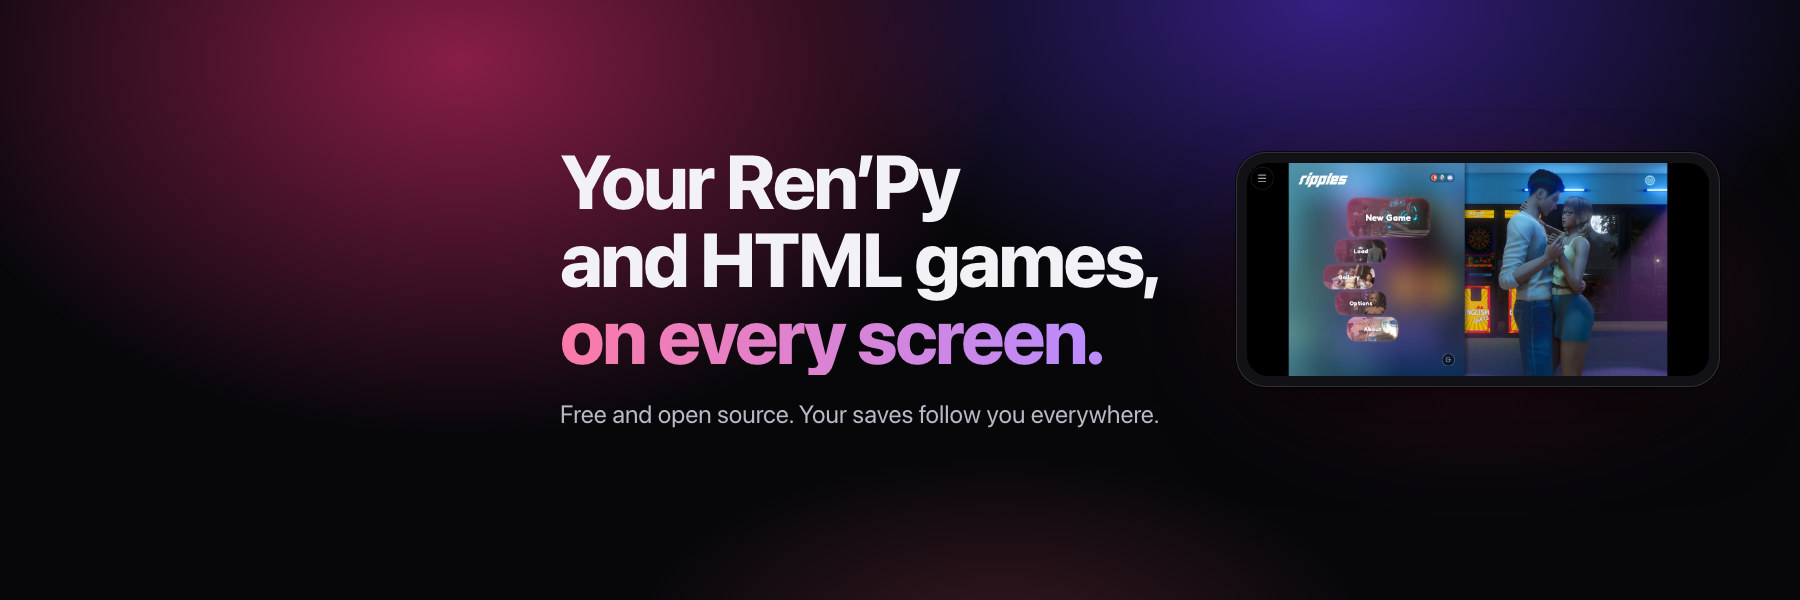
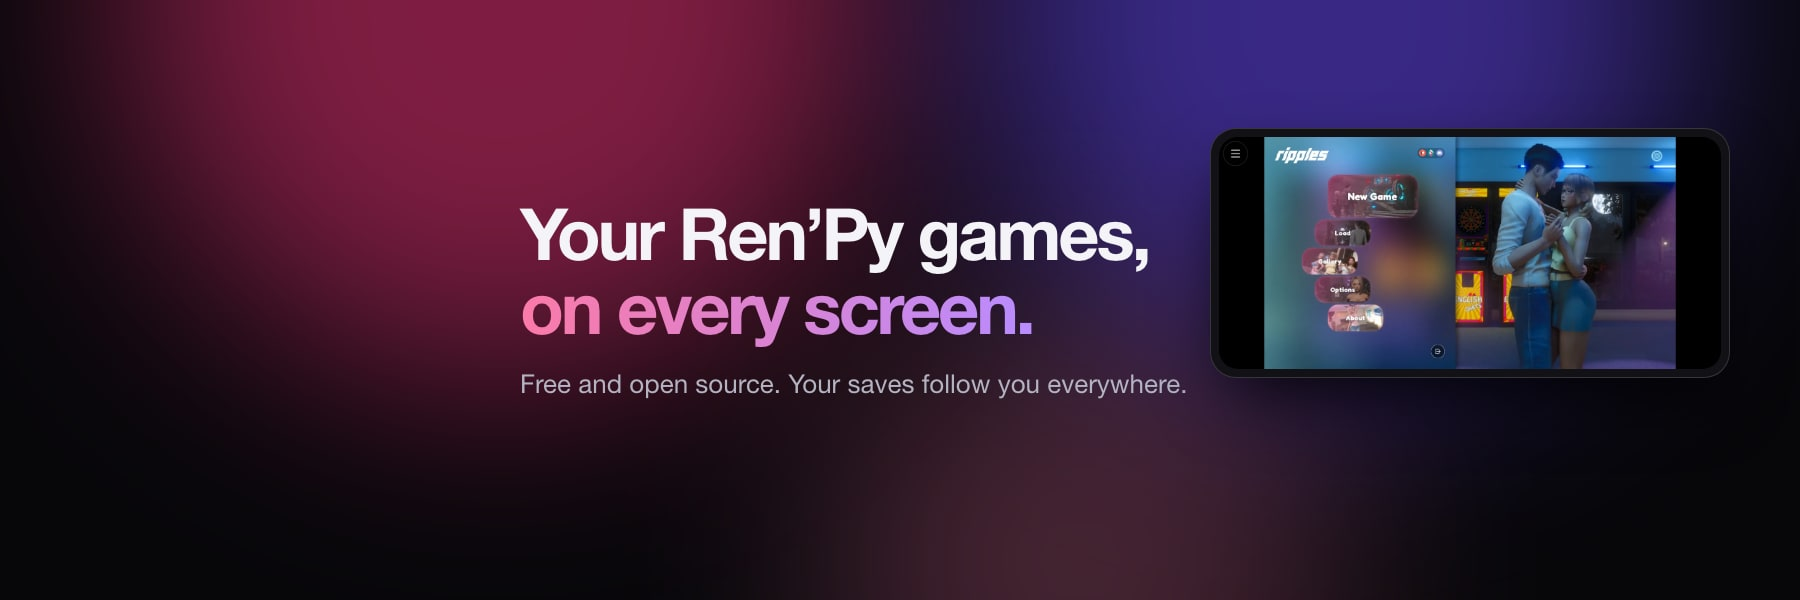
Tagline: Your Ren'Py games, on every screen (devices rotate)

diff --git a/index.html b/index.html
@@ -3,9 +3,9 @@
 <head>
   <meta charset="utf-8">
   <meta name="viewport" content="width=device-width, initial-scale=1, viewport-fit=cover">
-  <title>Renplay · Your Ren’Py and HTML games on every screen</title>
+  <title>Renplay · Your Ren’Py games on every screen</title>
   <meta name="description" content="Renplay turns the visual novels you download, Ren’Py games first and HTML games too, into games you can play in any browser, on your computer, tablet and phone, with every save kept on your own server. Free and open source.">
-  <meta property="og:title" content="Renplay · Your Ren’Py and HTML games on every screen">
+  <meta property="og:title" content="Renplay · Your Ren’Py games on every screen">
   <meta property="og:description" content="Play your visual novels on any device. Saves follow you. Free, open source, self-hosted.">
   <meta property="og:image" content="https://renplay-web.github.io/img/og.jpg">
   <meta name="twitter:card" content="summary_large_image">
@@ -45,7 +45,7 @@
   <div class="aurora"><span></span><span></span><span></span></div>
   <div class="wrap">
     <span class="chip intro" style="--d:0ms"><b>Free</b> Open source and self-hosted</span>
-    <h1 class="intro" style="--d:80ms">Your <span class="rotator" aria-label="Ren’Py and HTML"><span class="grad-text on" data-ms="5200">Ren’Py</span><span class="grad-text" aria-hidden="true" data-ms="2600">HTML</span></span> games,<br>on every screen.</h1>
+    <h1 class="intro" style="--d:80ms">Your Ren’Py games,<br><span class="rotator" aria-label="on every screen."><span class="grad-text on">on every screen.</span><span class="grad-text" aria-hidden="true">on your phone.</span><span class="grad-text" aria-hidden="true">on your laptop.</span><span class="grad-text" aria-hidden="true">on your tablet.</span></span></h1>
     <p class="sub intro" style="--d:160ms">Renplay turns the visual novels you download into games that play in any browser: <strong>your computer, your tablet, your phone</strong>. Every save lands on your own server, so you start a chapter at your desk and finish it on the couch.</p>
     <div class="cta intro" style="--d:240ms">
       <a class="btn primary" href="#install">Set it up in a minute
